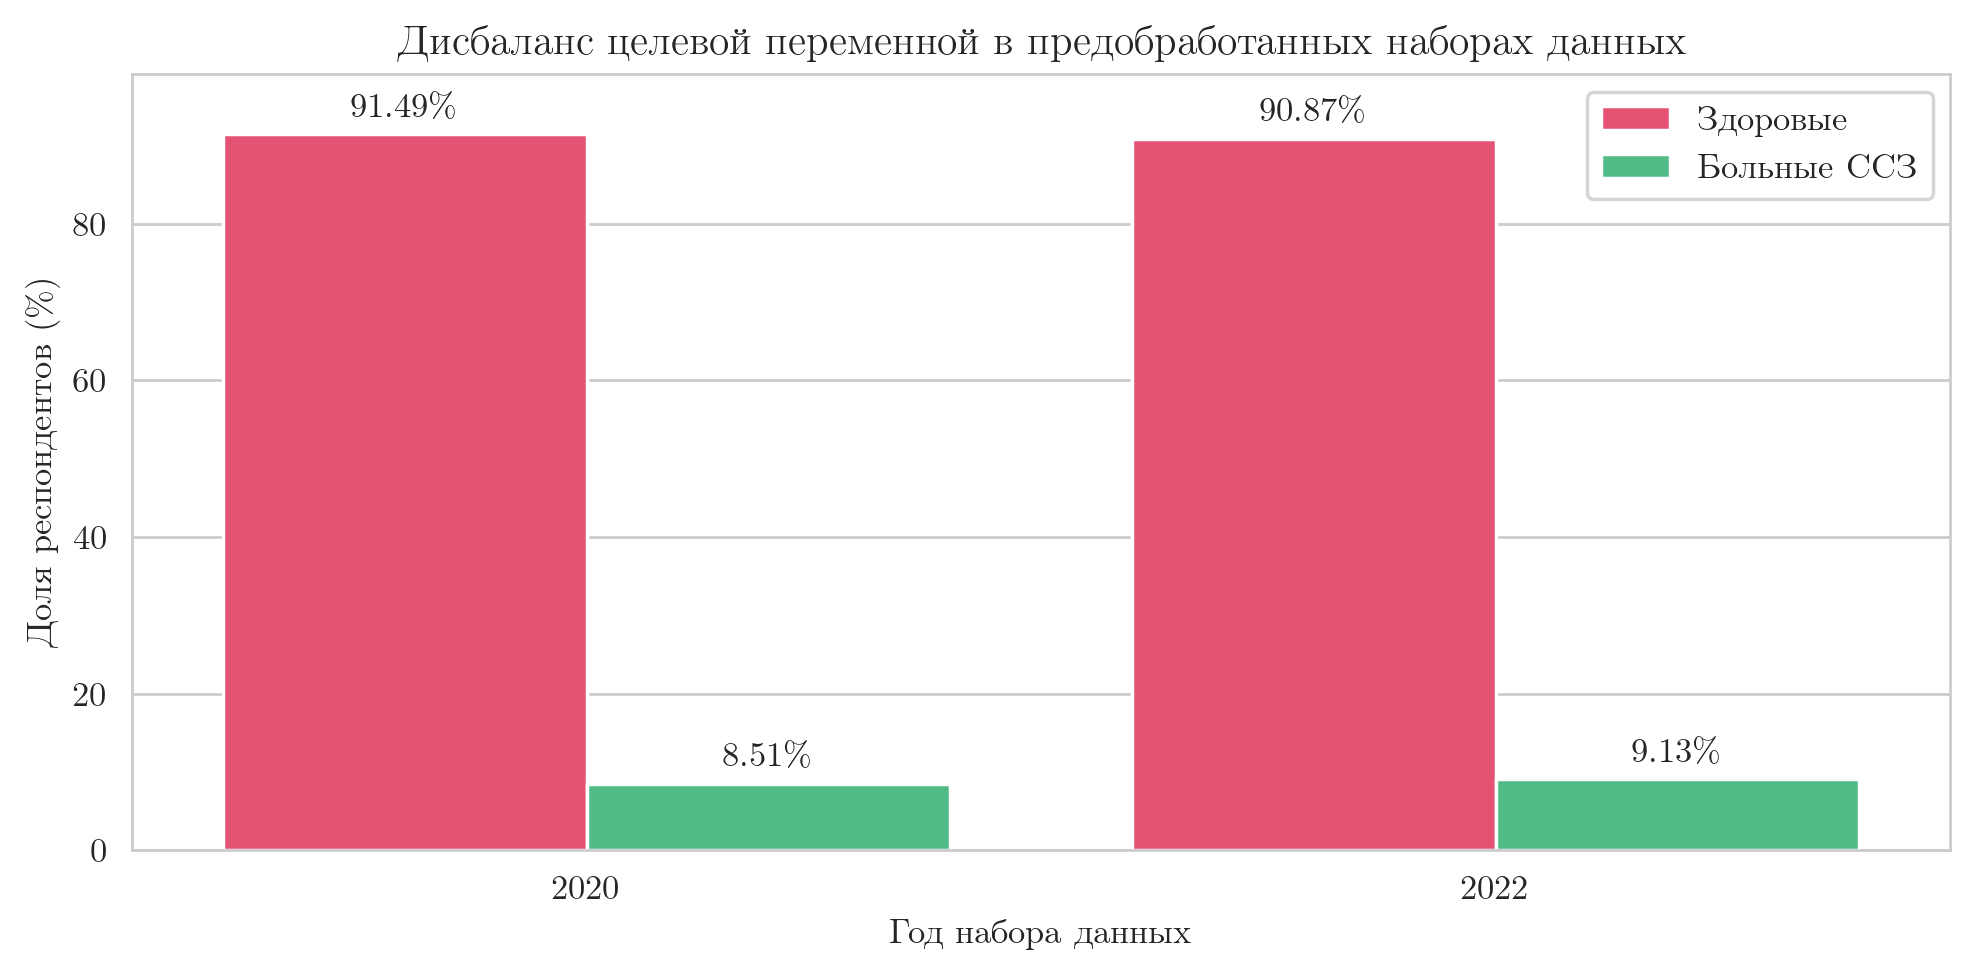
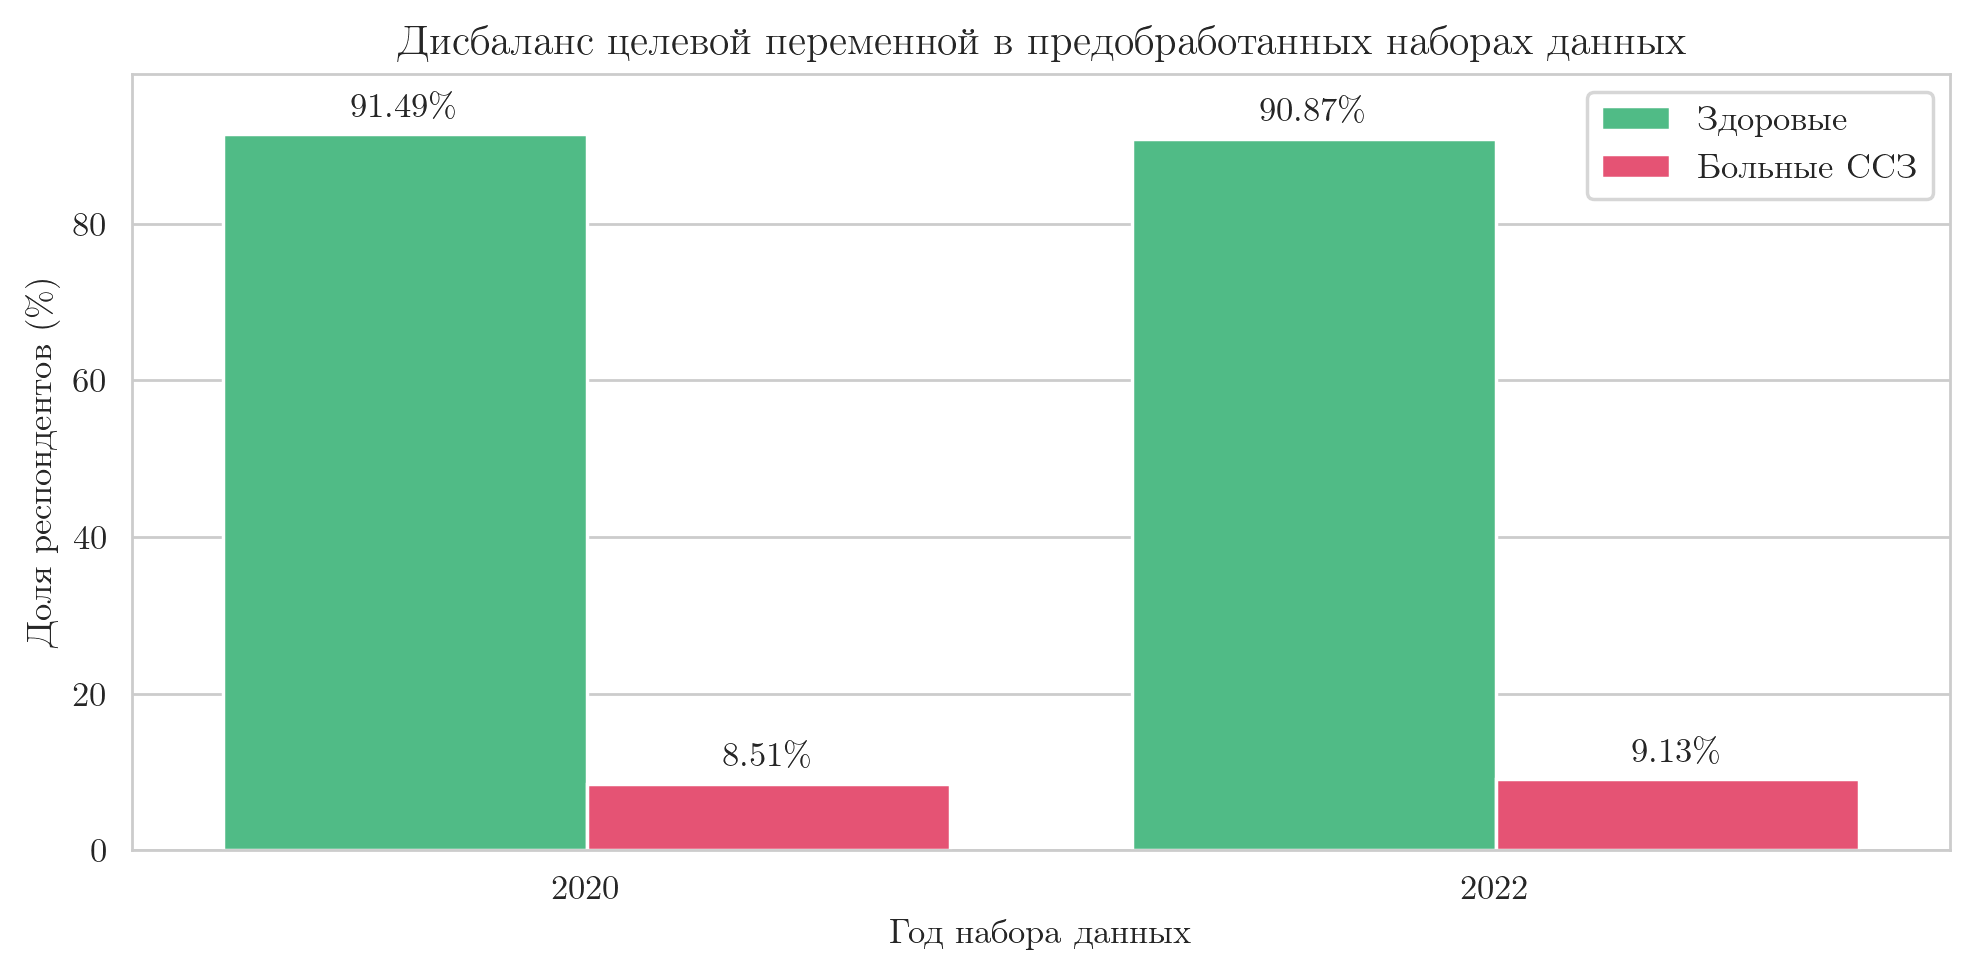
color fix

Changed region(s): [[0.5559, 0.1231, 0.9575, 0.8923], [0.0927, 0.1231, 0.4942, 0.8923], [0.803, 0.0923, 0.8648, 0.1846]]

diff --git a/visualizing/scripts/target_imbalance.py b/visualizing/scripts/target_imbalance.py
@@ -26,7 +26,7 @@ plot_df = pl.concat([stats_2020, stats_2022]).with_columns(
 )
 
 plt.figure(figsize=(8, 4))
-colors = ['#fd3b66', '#3ecd86']
+colors = ['#3ecd86', '#fd3b66']
 ax = sns.barplot(
     data=plot_df,
     x='Year',